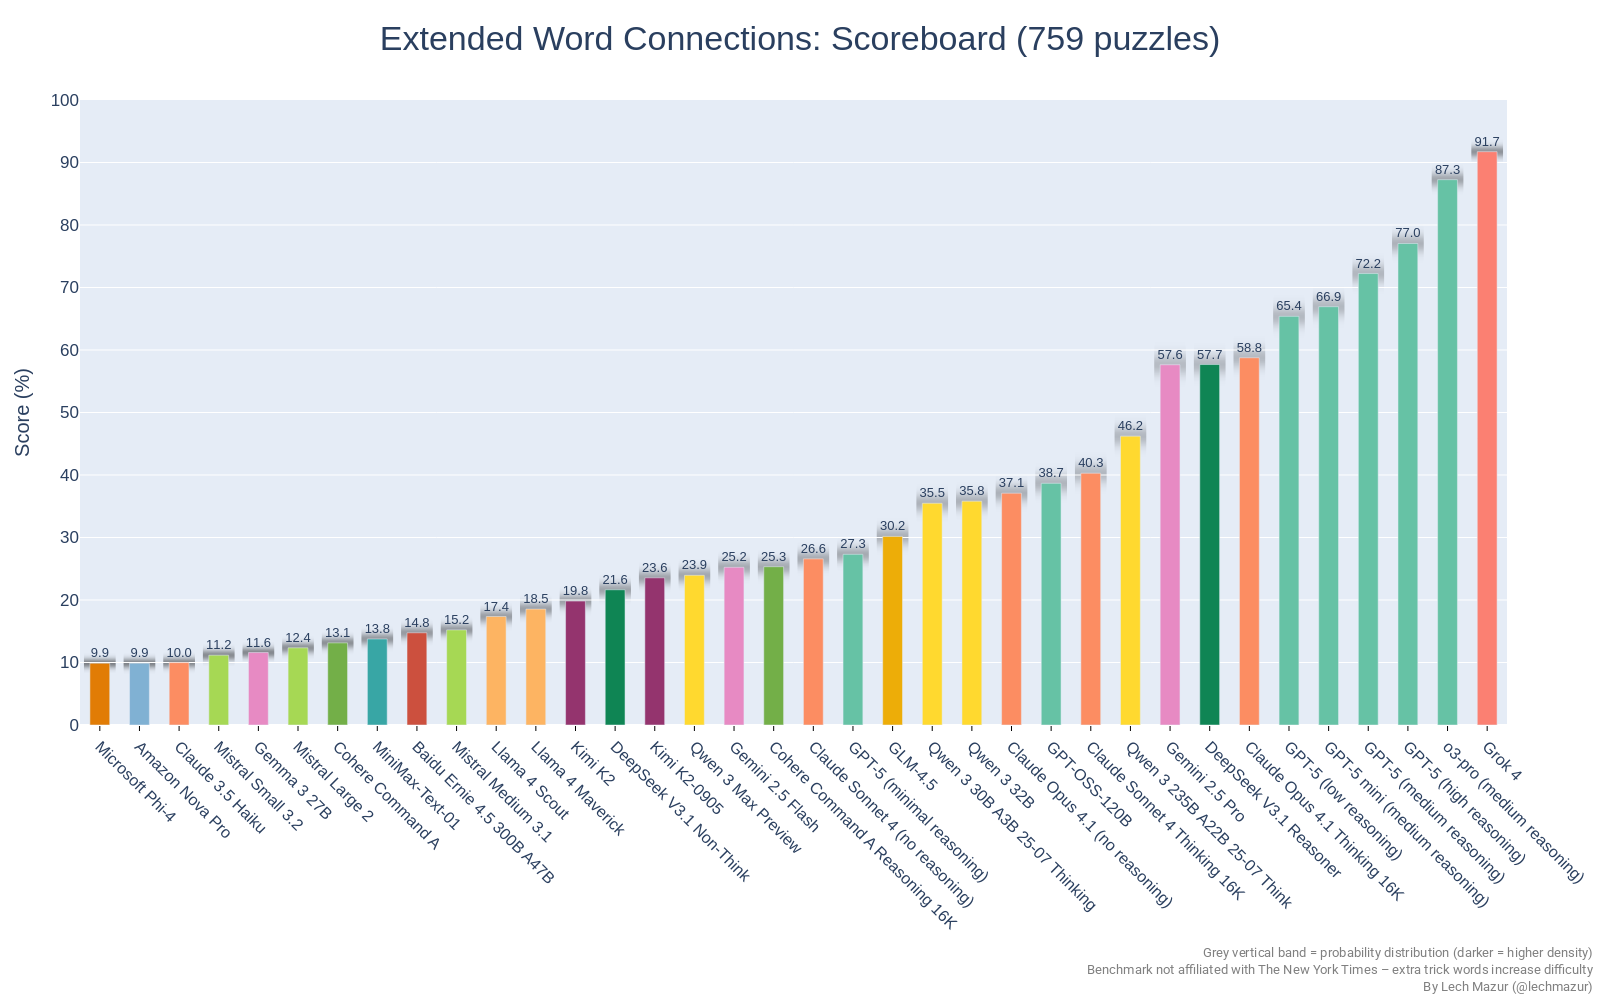
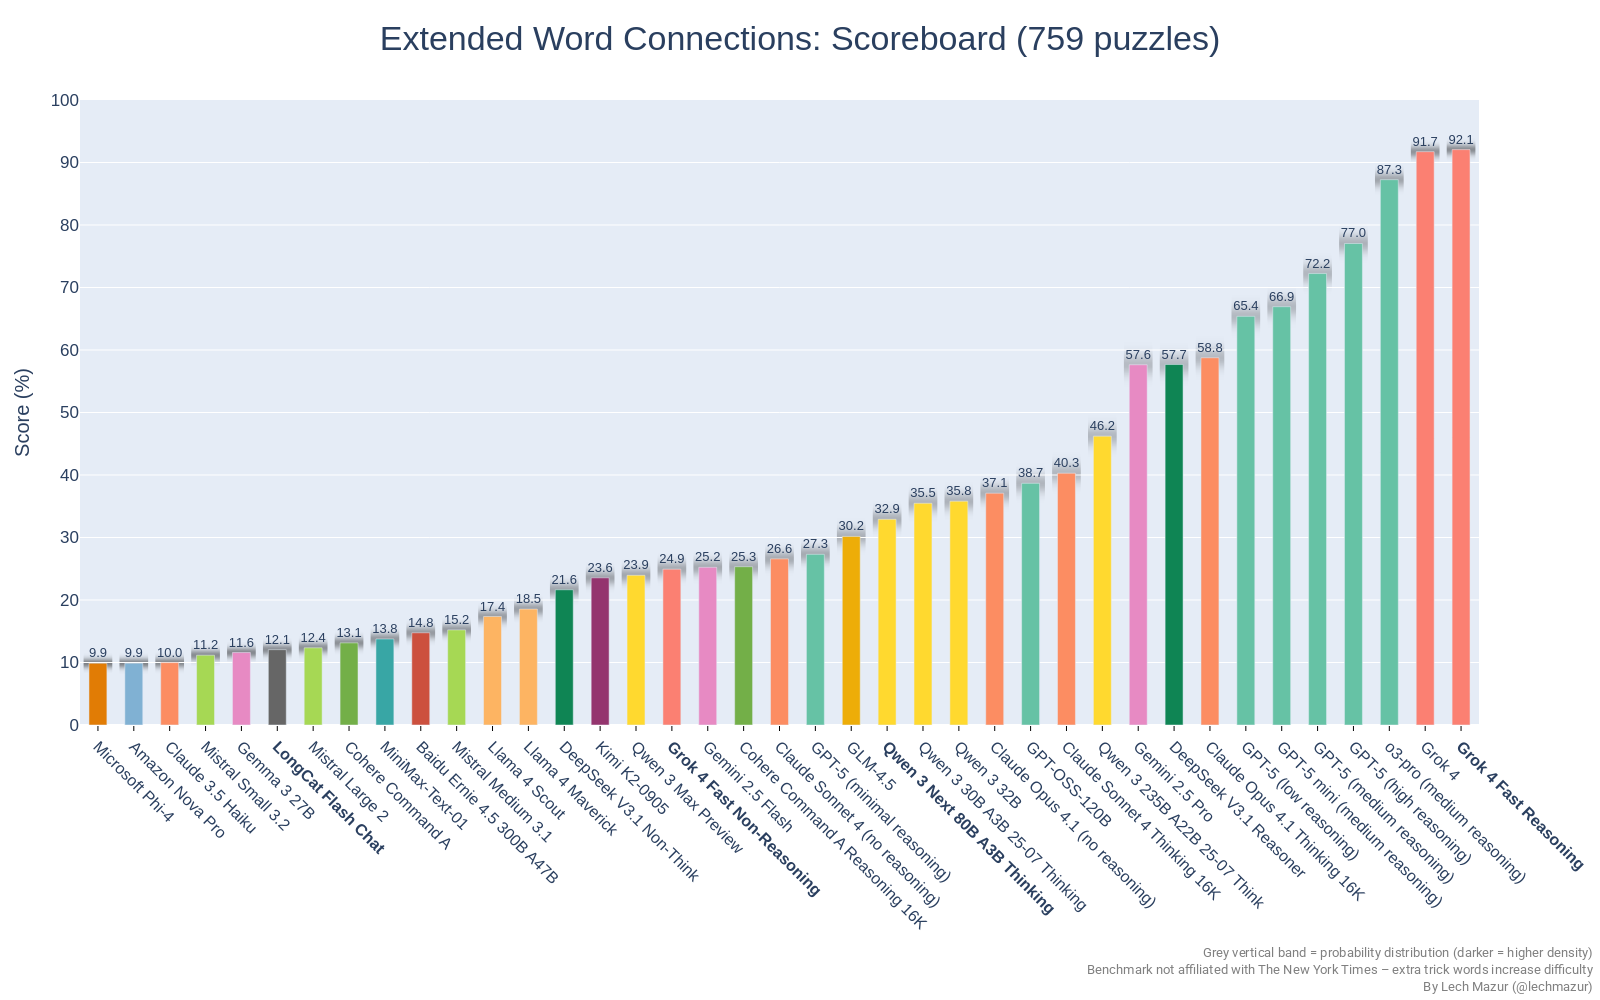
Grok 4 Fast, Qwen 3 Next 80B A3B Thinking, LongCat Flash Chat

Changed region(s): [[0.0625, 0.093, 1.0, 0.93], [0.3125, 0.837, 0.3438, 0.868]]

diff --git a/README.md b/README.md
@@ -12,97 +12,104 @@ As of Feb 4, 2025, there is a new version of the benchmark. The standard NYT Con
 
 |Rank|Model|Score %|#Puzzles|
 |---:|-----|------:|-------:|
-|1|Grok 4|91.7|759|
-|2|o3-pro (medium reasoning)|87.3|759|
-|3|o1-pro (medium reasoning)|82.5|651|
-|4|o3 (high reasoning)|78.6|759|
-|5|GPT-5 (high reasoning)|77.0|759|
-|6|o4-mini (high reasoning)|73.6|759|
-|7|o3 (medium reasoning)|73.0|759|
-|8|GPT-5 (medium reasoning)|72.2|759|
-|9|o1 (medium reasoning)|70.8|651|
-|10|o4-mini (medium reasoning)|68.8|651|
-|11|GPT-5 mini (medium reasoning)|66.9|759|
-|12|GPT-5 (low reasoning)|65.4|759|
-|13|o3-mini (high reasoning)|61.4|651|
-|14|Claude Opus 4.1 Thinking 16K|58.8|759|
-|15|DeepSeek V3.1 Reasoner|57.7|759|
-|16|Gemini 2.5 Pro|57.6|759|
-|17|Qwen 3 235B A22B|54.3|759|
-|18|Gemini 2.5 Pro Exp 03-25|54.1|651|
-|19|o3-mini (medium reasoning)|53.6|651|
-|20|Claude Opus 4 Thinking 16K|49.7|759|
-|21|DeepSeek R1 05/28|48.6|759|
-|22|Qwen 3 235B A22B 25-07 Think|46.2|759|
-|23|Gemini 2.5 Pro Preview 05-06|42.5|651|
-|24|Claude Sonnet 4 Thinking 16K|40.3|759|
-|25|Claude Sonnet 4 Thinking 64K|39.6|651|
-|26|GPT-OSS-120B|38.7|759|
-|27|DeepSeek R1|38.6|651|
-|28|Claude Opus 4.1 (no reasoning)|37.1|759|
-|29|Qwen 3 30B A3B|36.6|759|
-|30|Qwen 3 32B|35.8|759|
-|31|Qwen 3 30B A3B 25-07 Thinking|35.5|759|
-|32|Claude Opus 4 (no reasoning)|34.4|759|
-|33|GPT-4.5 Preview|34.2|651|
-|34|Claude 3.7 Sonnet Thinking 16K|33.6|651|
-|35|Qwen QwQ-32B 16K|31.4|651|
-|36|Grok 3 Mini Beta (high)|30.2|759|
-|37|GLM-4.5|30.2|759|
-|38|GPT-5 (minimal reasoning)|27.3|759|
-|39|o1-mini|26.9|651|
-|40|Claude Sonnet 4 (no reasoning)|26.6|759|
-|41|Grok 3 Mini Beta (low)|26.0|651|
-|42|Quasar Alpha|25.4|651|
-|43|Cohere Command A Reasoning 16K|25.3|759|
-|44|Gemini 2.5 Flash|25.2|759|
-|45|GPT-4o Mar 2025|24.5|759|
-|46|Qwen 3 Max Preview|23.9|759|
-|47|Kimi K2-0905|23.6|759|
-|48|Gemini 2.0 Flash Think Exp 01-21|23.1|649|
-|49|GPT-4.1|22.8|759|
-|50|GPT-4o Feb 2025|22.7|651|
-|51|Gemini 2.0 Pro Exp 02-05|21.7|651|
-|52|DeepSeek V3.1 Non-Think|21.6|759|
-|53|MiniMax-M1|21.3|688|
-|54|Kimi K2|19.8|759|
-|55|Qwen 3 235B A22B 25-07 Instruct|19.8|759|
-|56|Grok 3 Beta (no reasoning)|19.7|759|
-|57|Grok 2 12-12|19.2|651|
-|58|Gemini 1.5 Pro (Sept)|19.2|601|
-|59|Claude 3 Opus|19.2|650|
-|60|Claude 3.7 Sonnet|19.2|651|
-|61|Gemini 2.0 Flash|18.8|651|
-|62|GPT-4o 2024-11-20|18.7|601|
-|63|Llama 4 Maverick|18.5|759|
-|64|Qwen 2.5 Max|18.0|651|
-|65|GPT-4o 2024-08-06|17.8|601|
-|66|Claude 3.5 Sonnet 2024-10-22|17.7|651|
-|67|Llama 4 Scout|17.4|759|
-|68|DeepSeek V3-0324|16.8|759|
-|69|Llama 3.1 405B|16.2|651|
-|70|Mistral Medium 3.1|15.2|759|
-|71|DeepSeek V3|15.1|651|
-|72|Llama 3.3 70B|15.1|651|
-|73|Baidu Ernie 4.5 300B A47B|14.8|759|
-|74|GPT-4.1 mini|14.4|759|
-|75|MiniMax-Text-01|13.8|759|
-|76|Cohere Command A|13.1|759|
-|77|Mistral Large 2|12.4|759|
-|78|Gemma 2 27B|12.2|651|
-|79|Gemma 3 27B|11.6|759|
-|80|Mistral Medium 3|11.5|759|
-|81|Mistral Small 3.1|11.4|651|
-|82|Mistral Small 3.2|11.2|759|
-|83|Qwen 2.5 72B|10.5|759|
-|84|Claude 3.5 Haiku|10.0|759|
-|85|Amazon Nova Pro|9.9|759|
-|86|Microsoft Phi-4|9.9|759|
-|87|GPT-4o mini|9.7|759|
-|88|Mistral Small 3|8.9|601|
-|89|GPT-4.1 nano|8.1|759|
-|90|GLM4-32B-0414|7.6|759|
-|91|Claude 3 Haiku|2.2|601|
+|1|Grok 4 Fast Reasoning|92.1|759|
+|2|Grok 4|91.7|759|
+|3|Sonoma Sky Alpha|90.7|759|
+|4|o3-pro (medium reasoning)|87.3|759|
+|5|o1-pro (medium reasoning)|82.5|651|
+|6|o3 (high reasoning)|78.6|759|
+|7|GPT-5 (high reasoning)|77.0|759|
+|8|o4-mini (high reasoning)|73.6|759|
+|9|o3 (medium reasoning)|73.0|759|
+|10|GPT-5 (medium reasoning)|72.2|759|
+|11|o1 (medium reasoning)|70.8|651|
+|12|o4-mini (medium reasoning)|68.8|651|
+|13|GPT-5 mini (medium reasoning)|66.9|759|
+|14|GPT-5 (low reasoning)|65.4|759|
+|15|o3-mini (high reasoning)|61.4|651|
+|16|Claude Opus 4.1 Thinking 16K|58.8|759|
+|17|DeepSeek V3.1 Reasoner|57.7|759|
+|18|Gemini 2.5 Pro|57.6|759|
+|19|Qwen 3 235B A22B|54.3|759|
+|20|Gemini 2.5 Pro Exp 03-25|54.1|651|
+|21|o3-mini (medium reasoning)|53.6|651|
+|22|Claude Opus 4 Thinking 16K|49.7|759|
+|23|DeepSeek R1 05/28|48.6|759|
+|24|Qwen 3 235B A22B 25-07 Think|46.2|759|
+|25|Gemini 2.5 Pro Preview 05-06|42.5|651|
+|26|Claude Sonnet 4 Thinking 16K|40.3|759|
+|27|Claude Sonnet 4 Thinking 64K|39.6|651|
+|28|GPT-OSS-120B|38.7|759|
+|29|DeepSeek R1|38.6|651|
+|30|Claude Opus 4.1 (no reasoning)|37.1|759|
+|31|Qwen 3 30B A3B|36.6|759|
+|32|Qwen 3 32B|35.8|759|
+|33|Qwen 3 30B A3B 25-07 Thinking|35.5|759|
+|34|Claude Opus 4 (no reasoning)|34.4|759|
+|35|GPT-4.5 Preview|34.2|651|
+|36|Claude 3.7 Sonnet Thinking 16K|33.6|651|
+|37|Qwen 3 Next 80B A3B Thinking|32.9|759|
+|38|Qwen QwQ-32B 16K|31.4|651|
+|39|Grok 3 Mini Beta (high)|30.2|759|
+|40|GLM-4.5|30.2|759|
+|41|GPT-5 (minimal reasoning)|27.3|759|
+|42|o1-mini|26.9|651|
+|43|Claude Sonnet 4 (no reasoning)|26.6|759|
+|44|Grok 3 Mini Beta (low)|26.0|651|
+|45|Quasar Alpha|25.4|651|
+|46|Cohere Command A Reasoning 16K|25.3|759|
+|47|Gemini 2.5 Flash|25.2|759|
+|48|Grok 4 Fast Non-Reasoning|24.9|759|
+|49|GPT-4o Mar 2025|24.5|759|
+|50|Qwen 3 Max Preview|23.9|759|
+|51|Kimi K2-0905|23.6|759|
+|52|Gemini 2.0 Flash Think Exp 01-21|23.1|649|
+|53|GPT-4.1|22.8|759|
+|54|Sonoma Dusk Alpha|22.8|759|
+|55|GPT-4o Feb 2025|22.7|651|
+|56|Gemini 2.0 Pro Exp 02-05|21.7|651|
+|57|DeepSeek V3.1 Non-Think|21.6|759|
+|58|MiniMax-M1|21.3|688|
+|59|Kimi K2|19.8|759|
+|60|Qwen 3 235B A22B 25-07 Instruct|19.8|759|
+|61|Grok 3 Beta (no reasoning)|19.7|759|
+|62|Grok 2 12-12|19.2|651|
+|63|Gemini 1.5 Pro (Sept)|19.2|601|
+|64|Claude 3 Opus|19.2|650|
+|65|Claude 3.7 Sonnet|19.2|651|
+|66|Gemini 2.0 Flash|18.8|651|
+|67|GPT-4o 2024-11-20|18.7|601|
+|68|Llama 4 Maverick|18.5|759|
+|69|Qwen 2.5 Max|18.0|651|
+|70|GPT-4o 2024-08-06|17.8|601|
+|71|Claude 3.5 Sonnet 2024-10-22|17.7|651|
+|72|Llama 4 Scout|17.4|759|
+|73|DeepSeek V3-0324|16.8|759|
+|74|Llama 3.1 405B|16.2|651|
+|75|Mistral Medium 3.1|15.2|759|
+|76|DeepSeek V3|15.1|651|
+|77|Llama 3.3 70B|15.1|651|
+|78|Baidu Ernie 4.5 300B A47B|14.8|759|
+|79|GPT-4.1 mini|14.4|759|
+|80|MiniMax-Text-01|13.8|759|
+|81|Cohere Command A|13.1|759|
+|82|Mistral Large 2|12.4|759|
+|83|Gemma 2 27B|12.2|651|
+|84|LongCat Flash Chat|12.1|759|
+|85|Gemma 3 27B|11.6|759|
+|86|Mistral Medium 3|11.5|759|
+|87|Mistral Small 3.1|11.4|651|
+|88|Mistral Small 3.2|11.2|759|
+|89|Qwen 2.5 72B|10.5|759|
+|90|Claude 3.5 Haiku|10.0|759|
+|91|Amazon Nova Pro|9.9|759|
+|92|Microsoft Phi-4|9.9|759|
+|93|GPT-4o mini|9.7|759|
+|94|Mistral Small 3|8.9|601|
+|95|GPT-4.1 nano|8.1|759|
+|96|GLM4-32B-0414|7.6|759|
+|97|Claude 3 Haiku|2.2|601|
+
 
 
 
@@ -204,6 +211,7 @@ This benchmark evaluates large language models (LLMs) using 436 NYT Connections 
 ## Other benchmarks
 - [LLM Thematic Generalization Benchmark](https://github.com/lechmazur/generalization/)
 - [LLM Creative Story-Writing Benchmark](https://github.com/lechmazur/writing/)
+- [LLM Round‑Trip Translation Benchmark](https://github.com/lechmazur/translation/)
 - [Mapping LLM Style and Range in Flash Fiction](https://github.com/lechmazur/writing_styles)
 - [LLM Confabulation/Hallucination Benchmark](https://github.com/lechmazur/confabulations/)
 - [LLM Deceptiveness and Gullibility](https://github.com/lechmazur/deception/)
@@ -212,6 +220,7 @@ This benchmark evaluates large language models (LLMs) using 436 NYT Connections 
 ---
 
 ## Updates
+- Sep 19, 2025: Grok 4 Fast, Qwen 3 Next 80B A3B Thinking, LongCat Flash Chat added.
 - Sep 6, 2025: Kimi K2-0905 added.
 - Sep 5, 2025: Qwen 3 Max Preview, Qwen 3 235B A22B 25-07 Instruct added.
 - Aug 23, 2025: GPT-5 high reasoning and Cohere Command A Reasoning (16K) added.
